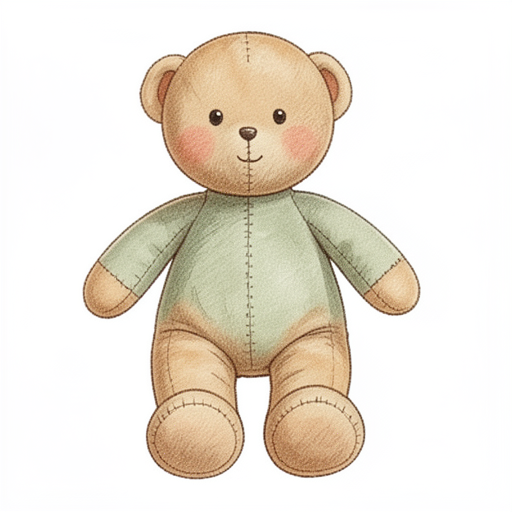
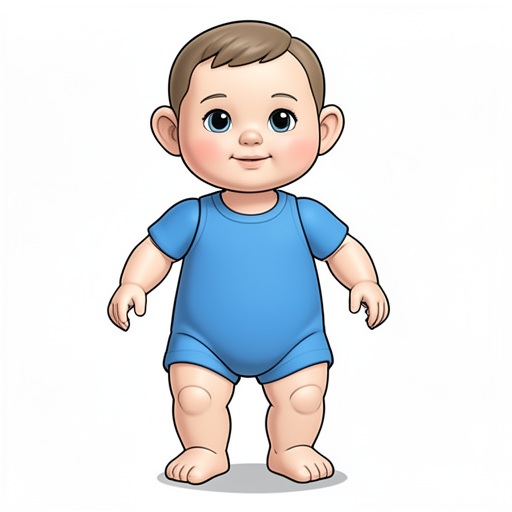
Save generated candidate and queue receipt

diff --git a/data/symbol-white-0.13-arm512/review.html b/data/symbol-white-0.13-arm512/review.html
@@ -1,1 +1,1 @@
-<!doctype html><html lang="sv"><meta charset="utf-8"><title>Bildkandidater</title><style>body{font:16px system-ui;margin:32px;color:#344453;background:white}.cards{display:flex;flex-wrap:wrap;gap:24px}figure{margin:0;width:240px;border:1px solid #ddd;padding:12px}img{width:100%;height:auto}small{color:#666}</style><h1>Bildkandidater</h1><figure><img src="reference.png" alt="Godkänd stilreferens"><figcaption>Stilreferens · se kandidatens metadata för om modellen använder referensbilden som indata.</figcaption></figure><p>Kontrollera handling, händer, borttagning av bakgrund och stil mot referensbilden. Ingen kandidat är publicerad.</p><div class="cards"><figure><img src="FSK_19_41.png" alt="yoghurt"><figcaption>yoghurt</figcaption><small>Utkast · granskning krävs</small><details><summary>Före friläggning</summary><img src="raw/FSK_19_41.png" alt="Motivet före bakgrundsborttagning"></details></figure><figure><img src="FSK_21_94.png" alt="pärm"><figcaption>pärm</figcaption><small>Utkast · granskning krävs</small><details><summary>Före friläggning</summary><img src="raw/FSK_21_94.png" alt="Motivet före bakgrundsborttagning"></details></figure><figure><img src="FSK_23_29.png" alt="linjal"><figcaption>linjal</figcaption><small>Utkast · granskning krävs</small><details><summary>Före friläggning</summary><img src="raw/FSK_23_29.png" alt="Motivet före bakgrundsborttagning"></details></figure><figure><img src="FSK_25_07.png" alt="suddgummi"><figcaption>suddgummi</figcaption><small>Utkast · granskning krävs</small><details><summary>Före friläggning</summary><img src="raw/FSK_25_07.png" alt="Motivet före bakgrundsborttagning"></details></figure><figure><img src="FSK_25_15.png" alt="häftapparat"><figcaption>häftapparat</figcaption><small>Utkast · granskning krävs</small><details><summary>Före friläggning</summary><img src="raw/FSK_25_15.png" alt="Motivet före bakgrundsborttagning"></details></figure><figure><img src="FSK_25_27.png" alt="skrivbok"><figcaption>skrivbok</figcaption><small>Utkast · granskning krävs</small><details><summary>Före friläggning</summary><img src="raw/FSK_25_27.png" alt="Motivet före bakgrundsborttagning"></details></figure><figure><img src="FSK_27_46.png" alt="båt"><figcaption>båt</figcaption><small>Utkast · granskning krävs</small><details><summary>Före friläggning</summary><img src="raw/FSK_27_46.png" alt="Motivet före bakgrundsborttagning"></details></figure><figure><img src="FSK_28_33.png" alt="gris"><figcaption>gris</figcaption><small>Utkast · granskning krävs</small><details><summary>Före friläggning</summary><img src="raw/FSK_28_33.png" alt="Motivet före bakgrundsborttagning"></details></figure><figure><img src="FSK_28_75.png" alt="spegel"><figcaption>spegel</figcaption><small>Utkast · granskning krävs</small><details><summary>Före friläggning</summary><img src="raw/FSK_28_75.png" alt="Motivet före bakgrundsborttagning"></details></figure><figure><img src="FSK_29_29.png" alt="dockvagn"><figcaption>dockvagn</figcaption><small>Utkast · granskning krävs</small><details><summary>Före friläggning</summary><img src="raw/FSK_29_29.png" alt="Motivet före bakgrundsborttagning"></details></figure><figure><img src="FSK_30_85.png" alt="lampa"><figcaption>lampa</figcaption><small>Utkast · granskning krävs</small><details><summary>Före friläggning</summary><img src="raw/FSK_30_85.png" alt="Motivet före bakgrundsborttagning"></details></figure><figure><img src="FSK_32_08.png" alt="kratta"><figcaption>kratta</figcaption><small>Utkast · granskning krävs</small><details><summary>Före friläggning</summary><img src="raw/FSK_32_08.png" alt="Motivet före bakgrundsborttagning"></details></figure><figure><img src="FSK_32_10.png" alt="kotte"><figcaption>kotte</figcaption><small>Utkast · granskning krävs</small><details><summary>Före friläggning</summary><img src="raw/FSK_32_10.png" alt="Motivet före bakgrundsborttagning"></details></figure><figure><img src="FSK_32_43.png" alt="grävmaskin"><figcaption>grävmaskin</figcaption><small>Utkast · granskning krävs</small><details><summary>Före friläggning</summary><img src="raw/FSK_32_43.png" alt="Motivet före bakgrundsborttagning"></details></figure><figure><img src="FSK_32_49.png" alt="ekollon"><figcaption>ekollon</figcaption><small>Utkast · granskning krävs</small><details><summary>Före friläggning</summary><img src="raw/FSK_32_49.png" alt="Motivet före bakgrundsborttagning"></details></figure><figure><img src="FSK_32_52.png" alt="äppeljuice"><figcaption>äppeljuice</figcaption><small>Utkast · granskning krävs</small><details><summary>Före friläggning</summary><img src="raw/FSK_32_52.png" alt="Motivet före bakgrundsborttagning"></details></figure><figure><img src="FSK_32_64.png" alt="maskros"><figcaption>maskros</figcaption><small>Utkast · granskning krävs</small><details><summary>Före friläggning</summary><img src="raw/FSK_32_64.png" alt="Motivet före bakgrundsborttagning"></details></figure><figure><img src="FSK_32_70.png" alt="vattenkanna"><figcaption>vattenkanna</figcaption><small>Utkast · granskning krävs</small><details><summary>Före friläggning</summary><img src="raw/FSK_32_70.png" alt="Motivet före bakgrundsborttagning"></details></figure><figure><img src="FSK_90_09.png" alt="tvål"><figcaption>tvål</figcaption><small>Utkast · granskning krävs</small><details><summary>Före friläggning</summary><img src="raw/FSK_90_09.png" alt="Motivet före bakgrundsborttagning"></details></figure><figure><img src="FSK_91_02.png" alt="vantar"><figcaption>vantar</figcaption><small>Utkast · granskning krävs</small><details><summary>Före friläggning</summary><img src="raw/FSK_91_02.png" alt="Motivet före bakgrundsborttagning"></details></figure><figure><img src="FSK_91_04.png" alt="byxor"><figcaption>byxor</figcaption><small>Utkast · granskning krävs</small><details><summary>Före friläggning</summary><img src="raw/FSK_91_04.png" alt="Motivet före bakgrundsborttagning"></details></figure><figure><img src="FSK_91_11.png" alt="klänning"><figcaption>klänning</figcaption><small>Utkast · granskning krävs</small><details><summary>Före friläggning</summary><img src="raw/FSK_91_11.png" alt="Motivet före bakgrundsborttagning"></details></figure><figure><img src="FSK_91_19.png" alt="vattenflaska"><figcaption>vattenflaska</figcaption><small>Utkast · granskning krävs</small><details><summary>Före friläggning</summary><img src="raw/FSK_91_19.png" alt="Motivet före bakgrundsborttagning"></details></figure><figure><img src="FSK_91_22.png" alt="banan"><figcaption>banan</figcaption><small>Utkast · granskning krävs</small><details><summary>Före friläggning</summary><img src="raw/FSK_91_22.png" alt="Motivet före bakgrundsborttagning"></details></figure><figure><img src="FSK_91_23.png" alt="päron"><figcaption>päron</figcaption><small>Utkast · granskning krävs</small><details><summary>Före friläggning</summary><img src="raw/FSK_91_23.png" alt="Motivet före bakgrundsborttagning"></details></figure><figure><img src="FSK_91_29.png" alt="bord"><figcaption>bord</figcaption><small>Utkast · granskning krävs</small><details><summary>Före friläggning</summary><img src="raw/FSK_91_29.png" alt="Motivet före bakgrundsborttagning"></details></figure><figure><img src="FSK_91_34.png" alt="toalett"><figcaption>toalett</figcaption><small>Utkast · granskning krävs</small><details><summary>Före friläggning</summary><img src="raw/FSK_91_34.png" alt="Motivet före bakgrundsborttagning"></details></figure><figure><img src="FSK_91_38.png" alt="hårborste"><figcaption>hårborste</figcaption><small>Utkast · granskning krävs</small><details><summary>Före friläggning</summary><img src="raw/FSK_91_38.png" alt="Motivet före bakgrundsborttagning"></details></figure><figure><img src="FSK_91_43.png" alt="pensel"><figcaption>pensel</figcaption><small>Utkast · granskning krävs</small><details><summary>Före friläggning</summary><img src="raw/FSK_91_43.png" alt="Motivet före bakgrundsborttagning"></details></figure><figure><img src="FSK_91_48.png" alt="klossar"><figcaption>klossar</figcaption><small>Utkast · granskning krävs</small><details><summary>Före friläggning</summary><img src="raw/FSK_91_48.png" alt="Motivet före bakgrundsborttagning"></details></figure><figure><img src="FSK_91_49.png" alt="boll"><figcaption>boll</figcaption><small>Utkast · granskning krävs</small><details><summary>Före friläggning</summary><img src="raw/FSK_91_49.png" alt="Motivet före bakgrundsborttagning"></details></figure><figure><img src="FSK_91_53.png" alt="hink"><figcaption>hink</figcaption><small>Utkast · granskning krävs</small><details><summary>Före friläggning</summary><img src="raw/FSK_91_53.png" alt="Motivet före bakgrundsborttagning"></details></figure><figure><img src="FSK_91_59.png" alt="sand"><figcaption>sand</figcaption><small>Utkast · granskning krävs</small><details><summary>Före friläggning</summary><img src="raw/FSK_91_59.png" alt="Motivet före bakgrundsborttagning"></details></figure></div></html>
+<!doctype html><html lang="sv"><meta charset="utf-8"><title>Bildkandidater</title><style>body{font:16px system-ui;margin:32px;color:#344453;background:white}.cards{display:flex;flex-wrap:wrap;gap:24px}figure{margin:0;width:240px;border:1px solid #ddd;padding:12px}img{width:100%;height:auto}small{color:#666}</style><h1>Bildkandidater</h1><figure><img src="reference.png" alt="Godkänd stilreferens"><figcaption>Stilreferens · se kandidatens metadata för om modellen använder referensbilden som indata.</figcaption></figure><p>Kontrollera handling, händer, borttagning av bakgrund och stil mot referensbilden. Ingen kandidat är publicerad.</p><div class="cards"><figure><img src="FSK_19_41.png" alt="yoghurt"><figcaption>yoghurt</figcaption><small>Utkast · granskning krävs</small><details><summary>Före friläggning</summary><img src="raw/FSK_19_41.png" alt="Motivet före bakgrundsborttagning"></details></figure><figure><img src="FSK_21_94.png" alt="pärm"><figcaption>pärm</figcaption><small>Utkast · granskning krävs</small><details><summary>Före friläggning</summary><img src="raw/FSK_21_94.png" alt="Motivet före bakgrundsborttagning"></details></figure><figure><img src="FSK_23_29.png" alt="linjal"><figcaption>linjal</figcaption><small>Utkast · granskning krävs</small><details><summary>Före friläggning</summary><img src="raw/FSK_23_29.png" alt="Motivet före bakgrundsborttagning"></details></figure><figure><img src="FSK_25_07.png" alt="suddgummi"><figcaption>suddgummi</figcaption><small>Utkast · granskning krävs</small><details><summary>Före friläggning</summary><img src="raw/FSK_25_07.png" alt="Motivet före bakgrundsborttagning"></details></figure><figure><img src="FSK_25_15.png" alt="häftapparat"><figcaption>häftapparat</figcaption><small>Utkast · granskning krävs</small><details><summary>Före friläggning</summary><img src="raw/FSK_25_15.png" alt="Motivet före bakgrundsborttagning"></details></figure><figure><img src="FSK_25_27.png" alt="skrivbok"><figcaption>skrivbok</figcaption><small>Utkast · granskning krävs</small><details><summary>Före friläggning</summary><img src="raw/FSK_25_27.png" alt="Motivet före bakgrundsborttagning"></details></figure><figure><img src="FSK_27_46.png" alt="båt"><figcaption>båt</figcaption><small>Utkast · granskning krävs</small><details><summary>Före friläggning</summary><img src="raw/FSK_27_46.png" alt="Motivet före bakgrundsborttagning"></details></figure><figure><img src="FSK_28_33.png" alt="gris"><figcaption>gris</figcaption><small>Utkast · granskning krävs</small><details><summary>Före friläggning</summary><img src="raw/FSK_28_33.png" alt="Motivet före bakgrundsborttagning"></details></figure><figure><img src="FSK_28_75.png" alt="spegel"><figcaption>spegel</figcaption><small>Utkast · granskning krävs</small><details><summary>Före friläggning</summary><img src="raw/FSK_28_75.png" alt="Motivet före bakgrundsborttagning"></details></figure><figure><img src="FSK_29_29.png" alt="dockvagn"><figcaption>dockvagn</figcaption><small>Utkast · granskning krävs</small><details><summary>Före friläggning</summary><img src="raw/FSK_29_29.png" alt="Motivet före bakgrundsborttagning"></details></figure><figure><img src="FSK_30_85.png" alt="lampa"><figcaption>lampa</figcaption><small>Utkast · granskning krävs</small><details><summary>Före friläggning</summary><img src="raw/FSK_30_85.png" alt="Motivet före bakgrundsborttagning"></details></figure><figure><img src="FSK_32_08.png" alt="kratta"><figcaption>kratta</figcaption><small>Utkast · granskning krävs</small><details><summary>Före friläggning</summary><img src="raw/FSK_32_08.png" alt="Motivet före bakgrundsborttagning"></details></figure><figure><img src="FSK_32_10.png" alt="kotte"><figcaption>kotte</figcaption><small>Utkast · granskning krävs</small><details><summary>Före friläggning</summary><img src="raw/FSK_32_10.png" alt="Motivet före bakgrundsborttagning"></details></figure><figure><img src="FSK_32_43.png" alt="grävmaskin"><figcaption>grävmaskin</figcaption><small>Utkast · granskning krävs</small><details><summary>Före friläggning</summary><img src="raw/FSK_32_43.png" alt="Motivet före bakgrundsborttagning"></details></figure><figure><img src="FSK_32_49.png" alt="ekollon"><figcaption>ekollon</figcaption><small>Utkast · granskning krävs</small><details><summary>Före friläggning</summary><img src="raw/FSK_32_49.png" alt="Motivet före bakgrundsborttagning"></details></figure><figure><img src="FSK_32_52.png" alt="äppeljuice"><figcaption>äppeljuice</figcaption><small>Utkast · granskning krävs</small><details><summary>Före friläggning</summary><img src="raw/FSK_32_52.png" alt="Motivet före bakgrundsborttagning"></details></figure><figure><img src="FSK_32_64.png" alt="maskros"><figcaption>maskros</figcaption><small>Utkast · granskning krävs</small><details><summary>Före friläggning</summary><img src="raw/FSK_32_64.png" alt="Motivet före bakgrundsborttagning"></details></figure><figure><img src="FSK_32_70.png" alt="vattenkanna"><figcaption>vattenkanna</figcaption><small>Utkast · granskning krävs</small><details><summary>Före friläggning</summary><img src="raw/FSK_32_70.png" alt="Motivet före bakgrundsborttagning"></details></figure><figure><img src="FSK_90_09.png" alt="tvål"><figcaption>tvål</figcaption><small>Utkast · granskning krävs</small><details><summary>Före friläggning</summary><img src="raw/FSK_90_09.png" alt="Motivet före bakgrundsborttagning"></details></figure><figure><img src="FSK_91_02.png" alt="vantar"><figcaption>vantar</figcaption><small>Utkast · granskning krävs</small><details><summary>Före friläggning</summary><img src="raw/FSK_91_02.png" alt="Motivet före bakgrundsborttagning"></details></figure><figure><img src="FSK_91_04.png" alt="byxor"><figcaption>byxor</figcaption><small>Utkast · granskning krävs</small><details><summary>Före friläggning</summary><img src="raw/FSK_91_04.png" alt="Motivet före bakgrundsborttagning"></details></figure><figure><img src="FSK_91_11.png" alt="klänning"><figcaption>klänning</figcaption><small>Utkast · granskning krävs</small><details><summary>Före friläggning</summary><img src="raw/FSK_91_11.png" alt="Motivet före bakgrundsborttagning"></details></figure><figure><img src="FSK_91_19.png" alt="vattenflaska"><figcaption>vattenflaska</figcaption><small>Utkast · granskning krävs</small><details><summary>Före friläggning</summary><img src="raw/FSK_91_19.png" alt="Motivet före bakgrundsborttagning"></details></figure><figure><img src="FSK_91_22.png" alt="banan"><figcaption>banan</figcaption><small>Utkast · granskning krävs</small><details><summary>Före friläggning</summary><img src="raw/FSK_91_22.png" alt="Motivet före bakgrundsborttagning"></details></figure><figure><img src="FSK_91_23.png" alt="päron"><figcaption>päron</figcaption><small>Utkast · granskning krävs</small><details><summary>Före friläggning</summary><img src="raw/FSK_91_23.png" alt="Motivet före bakgrundsborttagning"></details></figure><figure><img src="FSK_91_29.png" alt="bord"><figcaption>bord</figcaption><small>Utkast · granskning krävs</small><details><summary>Före friläggning</summary><img src="raw/FSK_91_29.png" alt="Motivet före bakgrundsborttagning"></details></figure><figure><img src="FSK_91_34.png" alt="toalett"><figcaption>toalett</figcaption><small>Utkast · granskning krävs</small><details><summary>Före friläggning</summary><img src="raw/FSK_91_34.png" alt="Motivet före bakgrundsborttagning"></details></figure><figure><img src="FSK_91_38.png" alt="hårborste"><figcaption>hårborste</figcaption><small>Utkast · granskning krävs</small><details><summary>Före friläggning</summary><img src="raw/FSK_91_38.png" alt="Motivet före bakgrundsborttagning"></details></figure><figure><img src="FSK_91_43.png" alt="pensel"><figcaption>pensel</figcaption><small>Utkast · granskning krävs</small><details><summary>Före friläggning</summary><img src="raw/FSK_91_43.png" alt="Motivet före bakgrundsborttagning"></details></figure><figure><img src="FSK_91_48.png" alt="klossar"><figcaption>klossar</figcaption><small>Utkast · granskning krävs</small><details><summary>Före friläggning</summary><img src="raw/FSK_91_48.png" alt="Motivet före bakgrundsborttagning"></details></figure><figure><img src="FSK_91_49.png" alt="boll"><figcaption>boll</figcaption><small>Utkast · granskning krävs</small><details><summary>Före friläggning</summary><img src="raw/FSK_91_49.png" alt="Motivet före bakgrundsborttagning"></details></figure><figure><img src="FSK_91_50.png" alt="docka"><figcaption>docka</figcaption><small>Utkast · granskning krävs</small><details><summary>Före friläggning</summary><img src="raw/FSK_91_50.png" alt="Motivet före bakgrundsborttagning"></details></figure><figure><img src="FSK_91_53.png" alt="hink"><figcaption>hink</figcaption><small>Utkast · granskning krävs</small><details><summary>Före friläggning</summary><img src="raw/FSK_91_53.png" alt="Motivet före bakgrundsborttagning"></details></figure><figure><img src="FSK_91_59.png" alt="sand"><figcaption>sand</figcaption><small>Utkast · granskning krävs</small><details><summary>Före friläggning</summary><img src="raw/FSK_91_59.png" alt="Motivet före bakgrundsborttagning"></details></figure></div></html>
